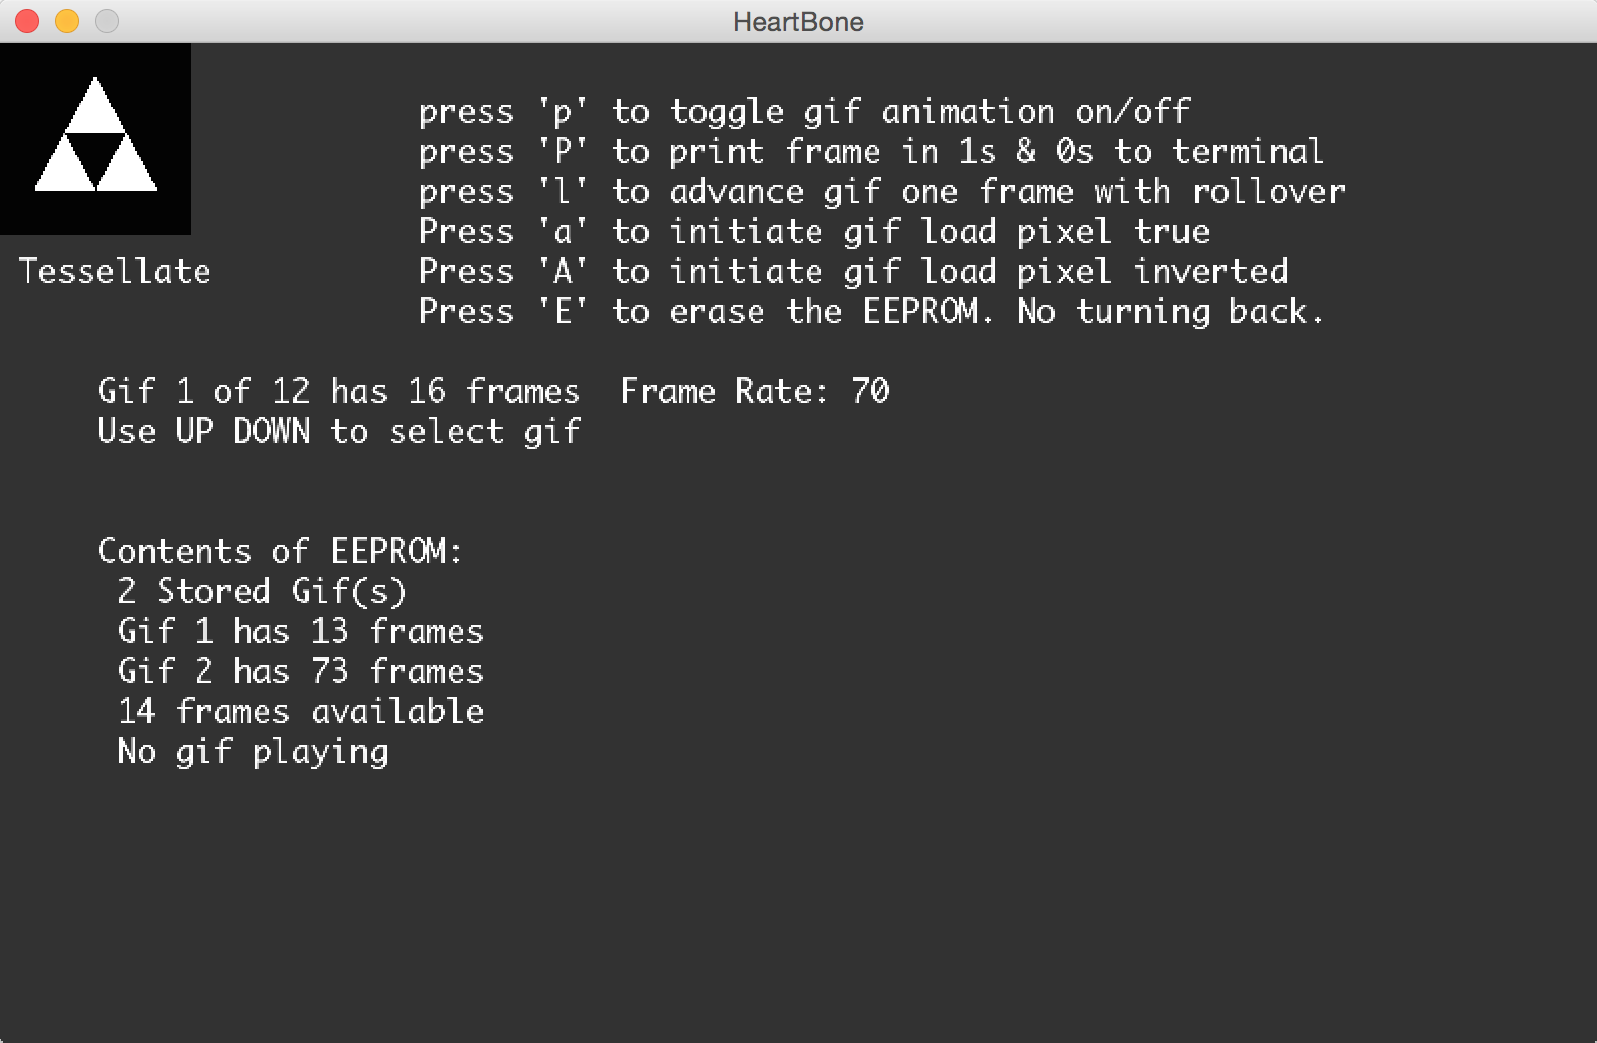
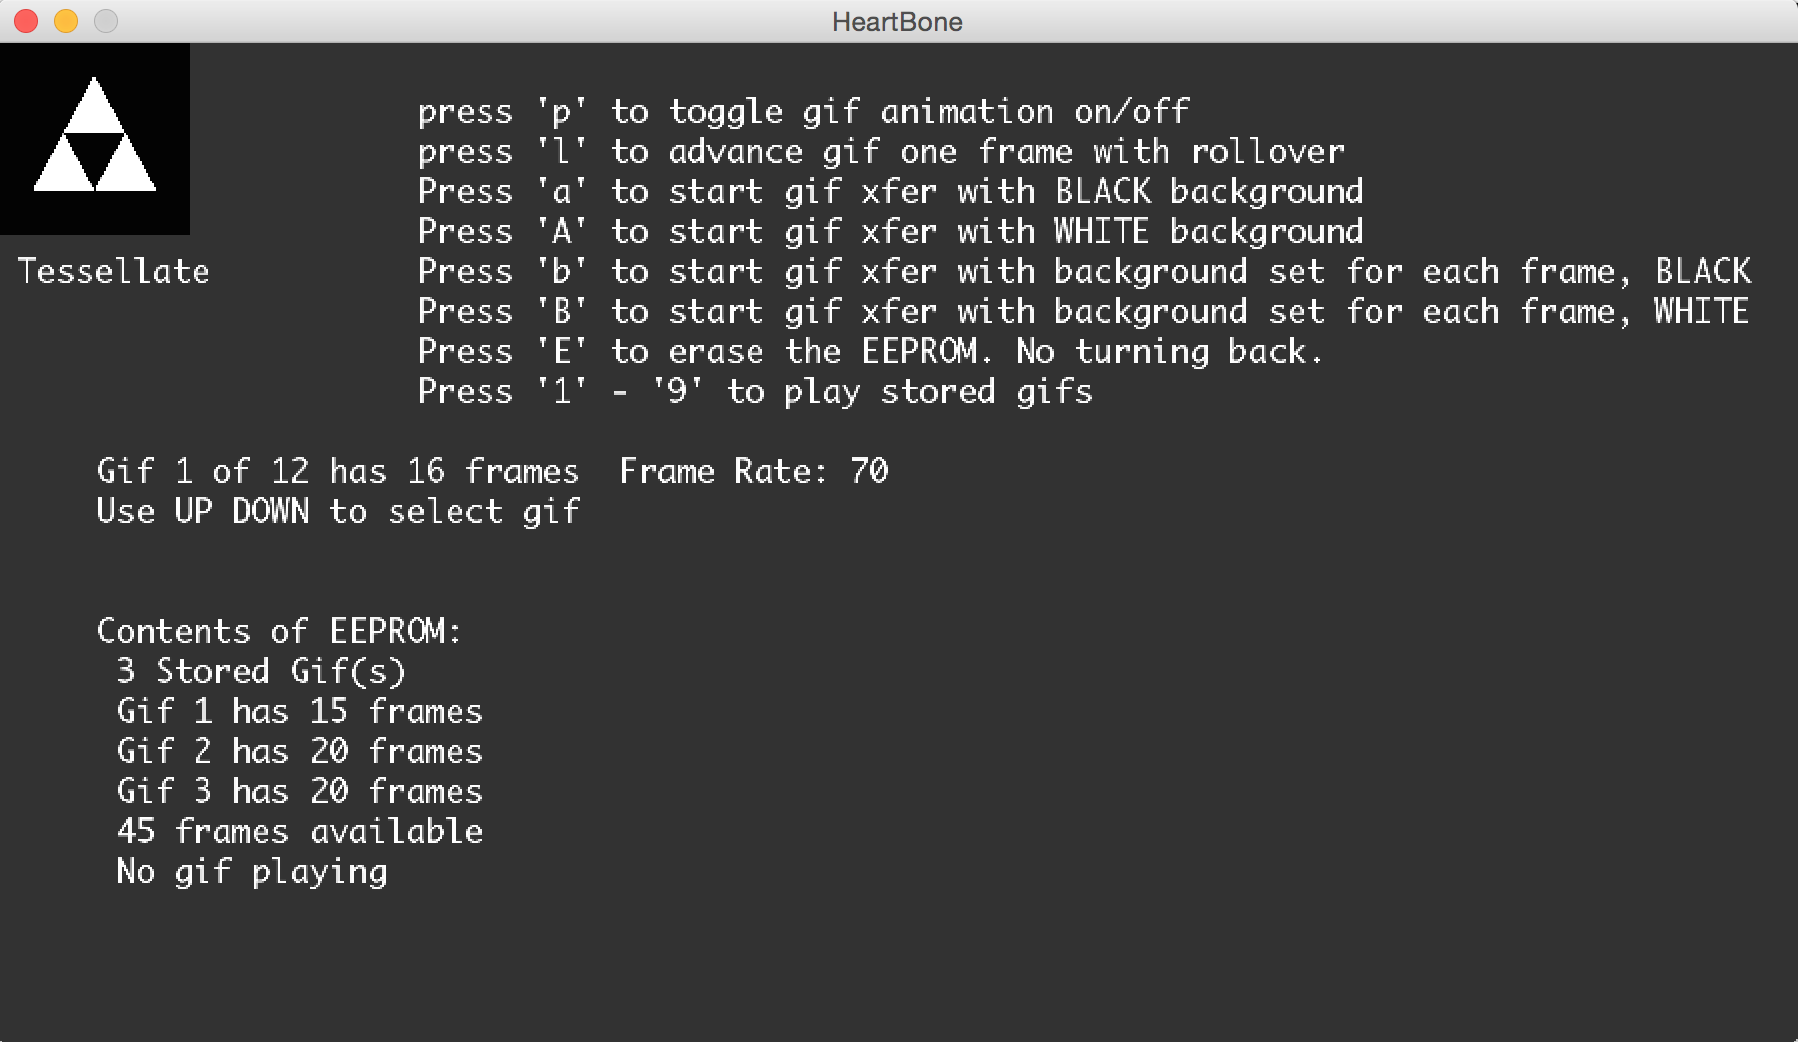
edits
Minor edits to readme

diff --git a/README.md b/README.md
@@ -60,13 +60,60 @@ That is the port you want to connect to. Count the ports available starting from
 
 Even if the program starts up, if you may find your Heart Bone unresponsive. If that happens, this is a good place to start debugging. Some ports can pretend to be a Heart Bone.
 
-##Troubleshooting
+# Heart Bone Control
+
+Now that you've got your Heart Bone connected, you will want to know how to control it. Ok, here we go!
+
+##Buttons
+
+Heart Bone has 4 buttons:
+
+*	play
+	*	plays the next stored gif, if available. looping.
+*	wake
+	*	wake from sleep. return to start screen
+*	reset
+	*	resets the hardware not useful otherwise
+*	sleep
+	*	put Heart Bone into low power mode
+	*	screen refreshes every 1.024 seconds
+	
+The Heart Bone should be awake befrore connecting to any control software.
+
+## Keyboard Commands
+
+When you start the Heart Bone software and connect you will see a window that looks liek this
+
+![SketchScreenShot](images/SketchScreenShot.png)
+
+Almost all of the keyboard commands are shown, but hey, we're still in beta..
+The program window contains information about gifs stored on the Heart Bone, and givs stored on the computer. The image on the upper left is of a gif stored on the computer. You can scroll all the gifs stored on the computer by using the UP and DOWN keys. Use the following keys to control the Heart Bone. 
+
+### p
+*	Press 'p' to animate the gif in the upper left
+
+### l
+*	Press 'l' to advance the gif in the upper left frame by frame (with rollover)
+
+### P
+*	Press 'P' to print the current frame to the Processing terminal in 1's and 0's 
+	*	This is useful for debugging 
+
+### a or A
+*	These keys convert the gif image to BLACK and WHITE, and loads it to your Heart Bone. The program reads the color of the FIRST pixel (upper-left-most pixel)of the FIRST gif and uses that as the background color for ALL of the frames in the gif. Pressing 'a' reads the background as BLACK. Pressing 'A' reads the background as WHITE. This works well with most gifs that have a consistent background color, like KOI.gif. Or ones that have an animation that changes the pixel color at the upper left corner of the screen, like Spiraltorustorso.gif 
+
+### b or B
+*	These keys convert the gif image to BLACK and WHITE, and loads it to your Heart Bone. The program reads the color of the first pixel of EVERY gif frame (upper-left-most pixel) and uses that as the background color FOR THAT FRAME.This is useful if you have a gif with changing background like explode.gif or fiercingHeart.gif
+
+### E
+*	press E to erase all of the stored gifs on your Heart Bone. Heart Bone has room for up to 100 gif frames. They can be divided into up to 9 gifs (this is arbitrary and can change). If you try to load a gif with more frames than are available, you will get an error message in the Sketch window. 
+
+#Troubleshooting
 
 When in doubt, reboot. Start everything over from the top. Unplug, and the plug again. Re-read these documents, and then email me if it's really broken.
 
 biomurph at gmial dot com
 
-If you have your Heart Bone connected correctly and the software is running, you can find a command cheat sheet [here](https://github.com/biomurph/HeartBone/blob/master/CheatSheet.md).
 
 
 
